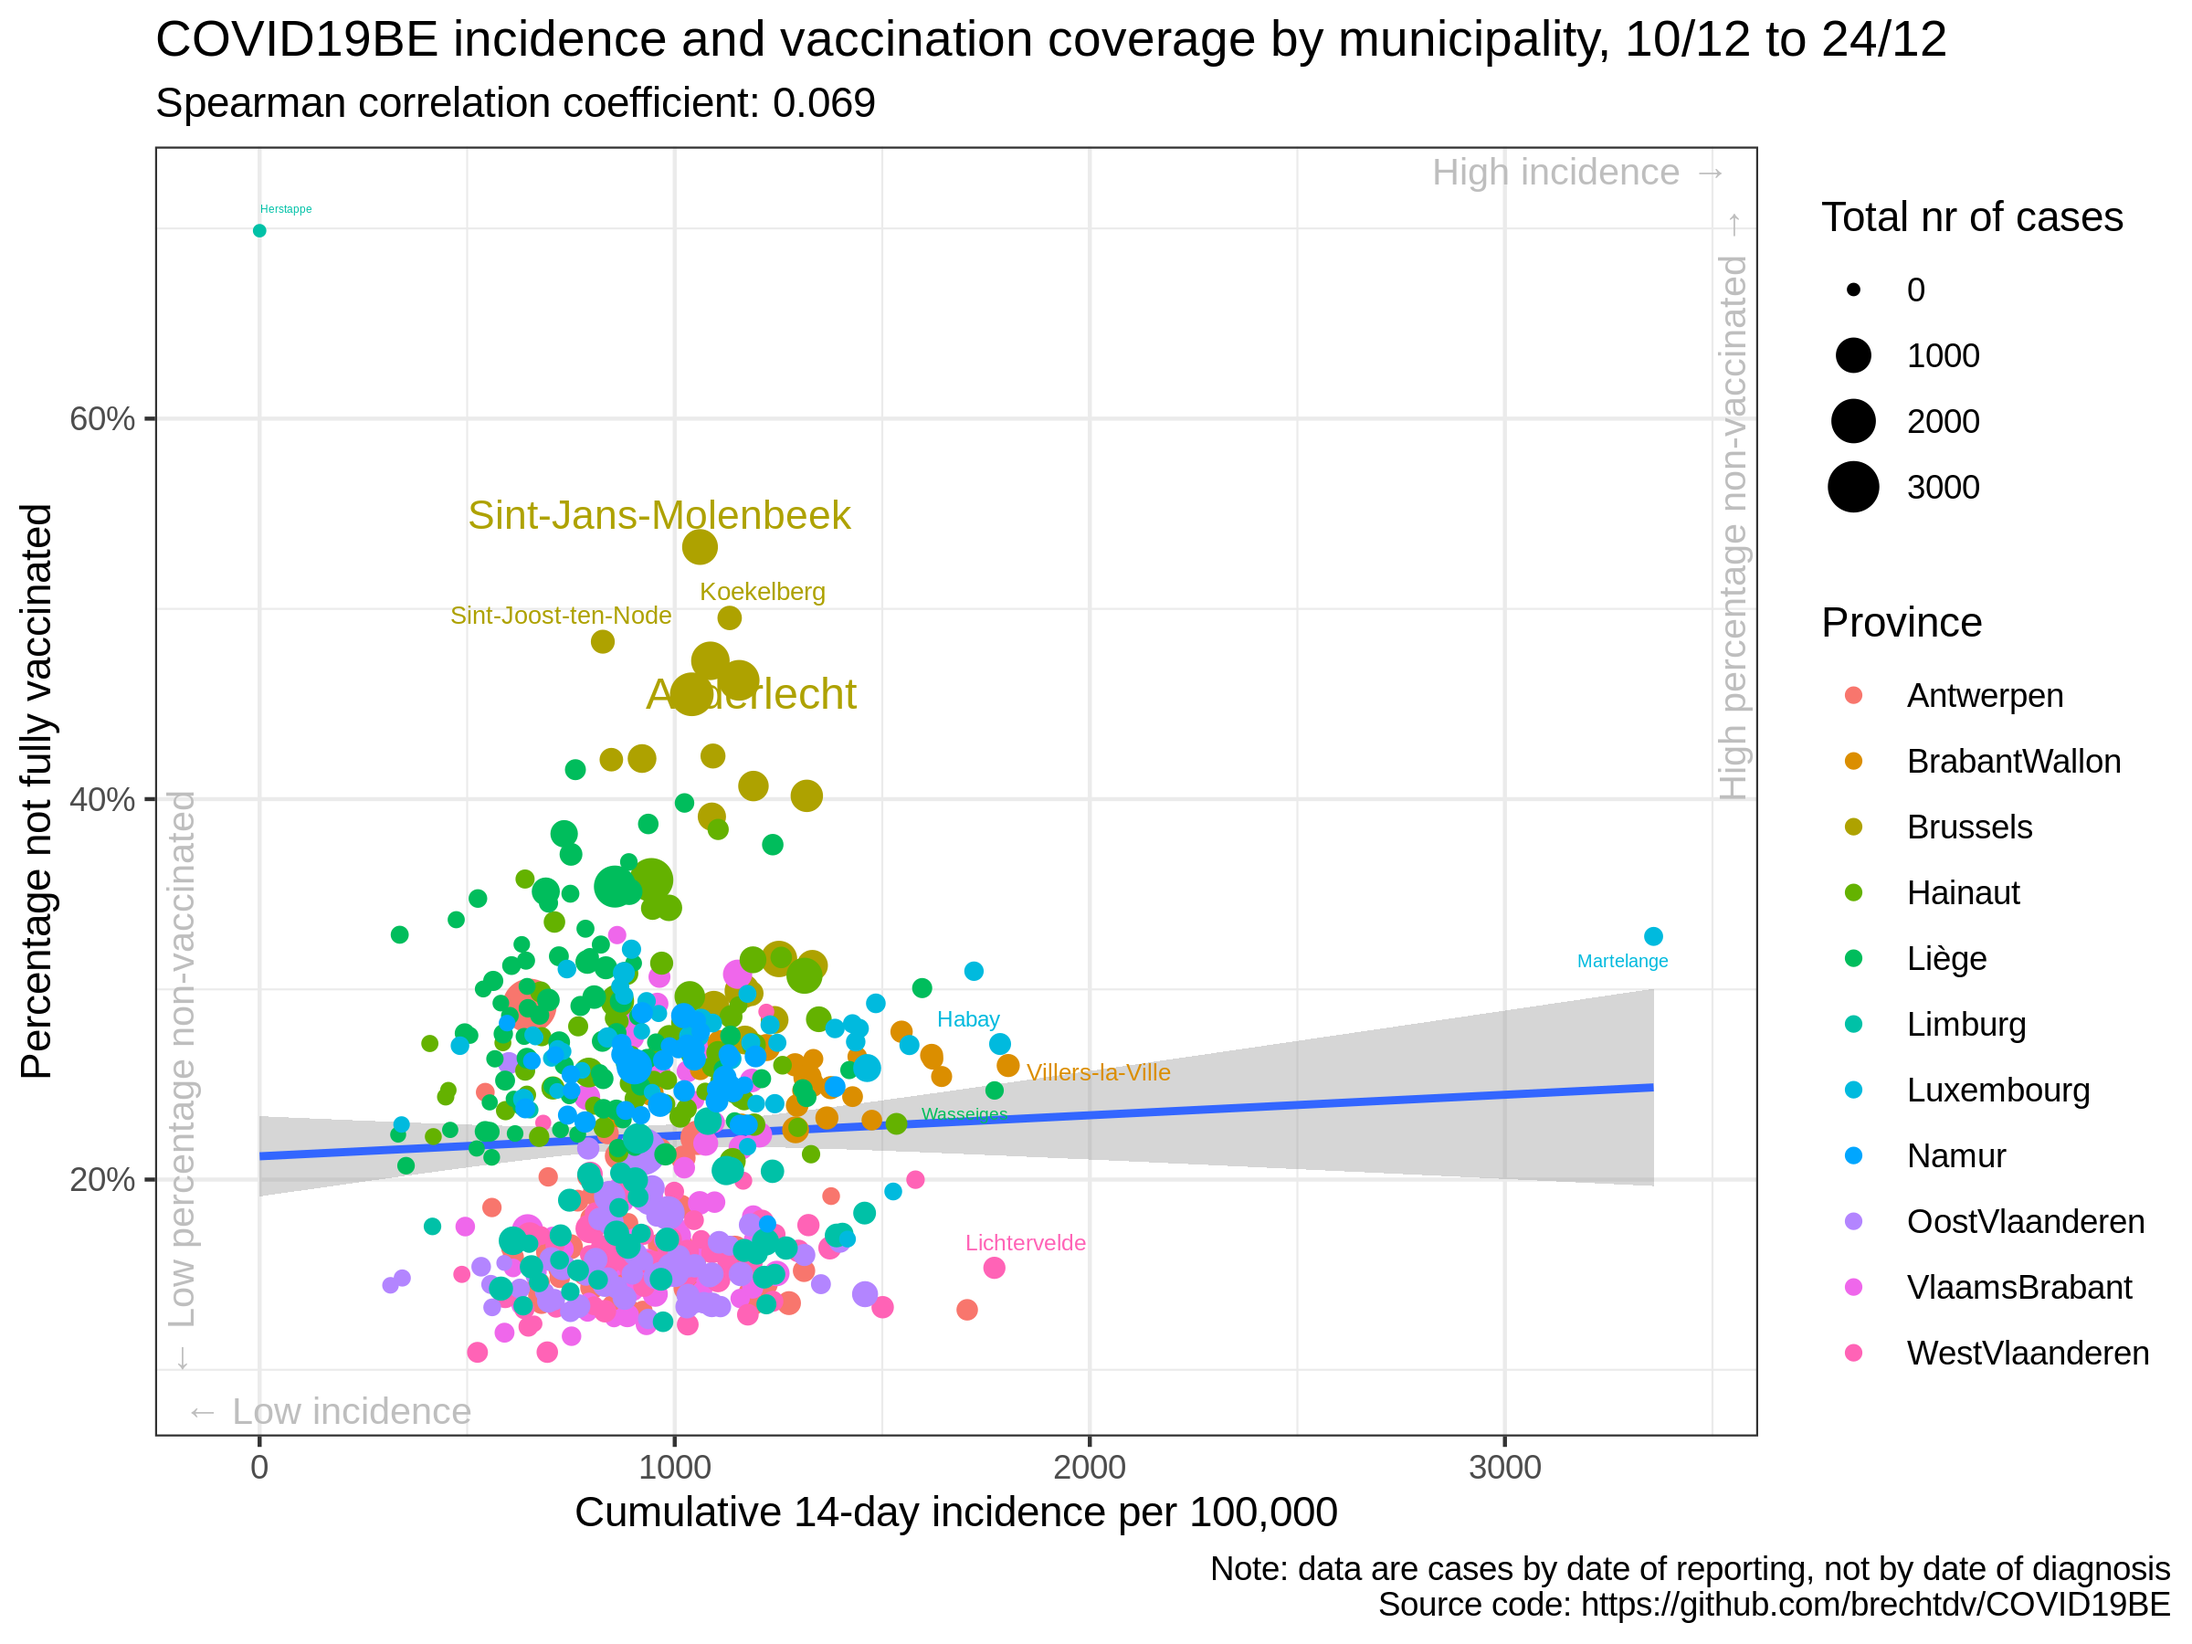
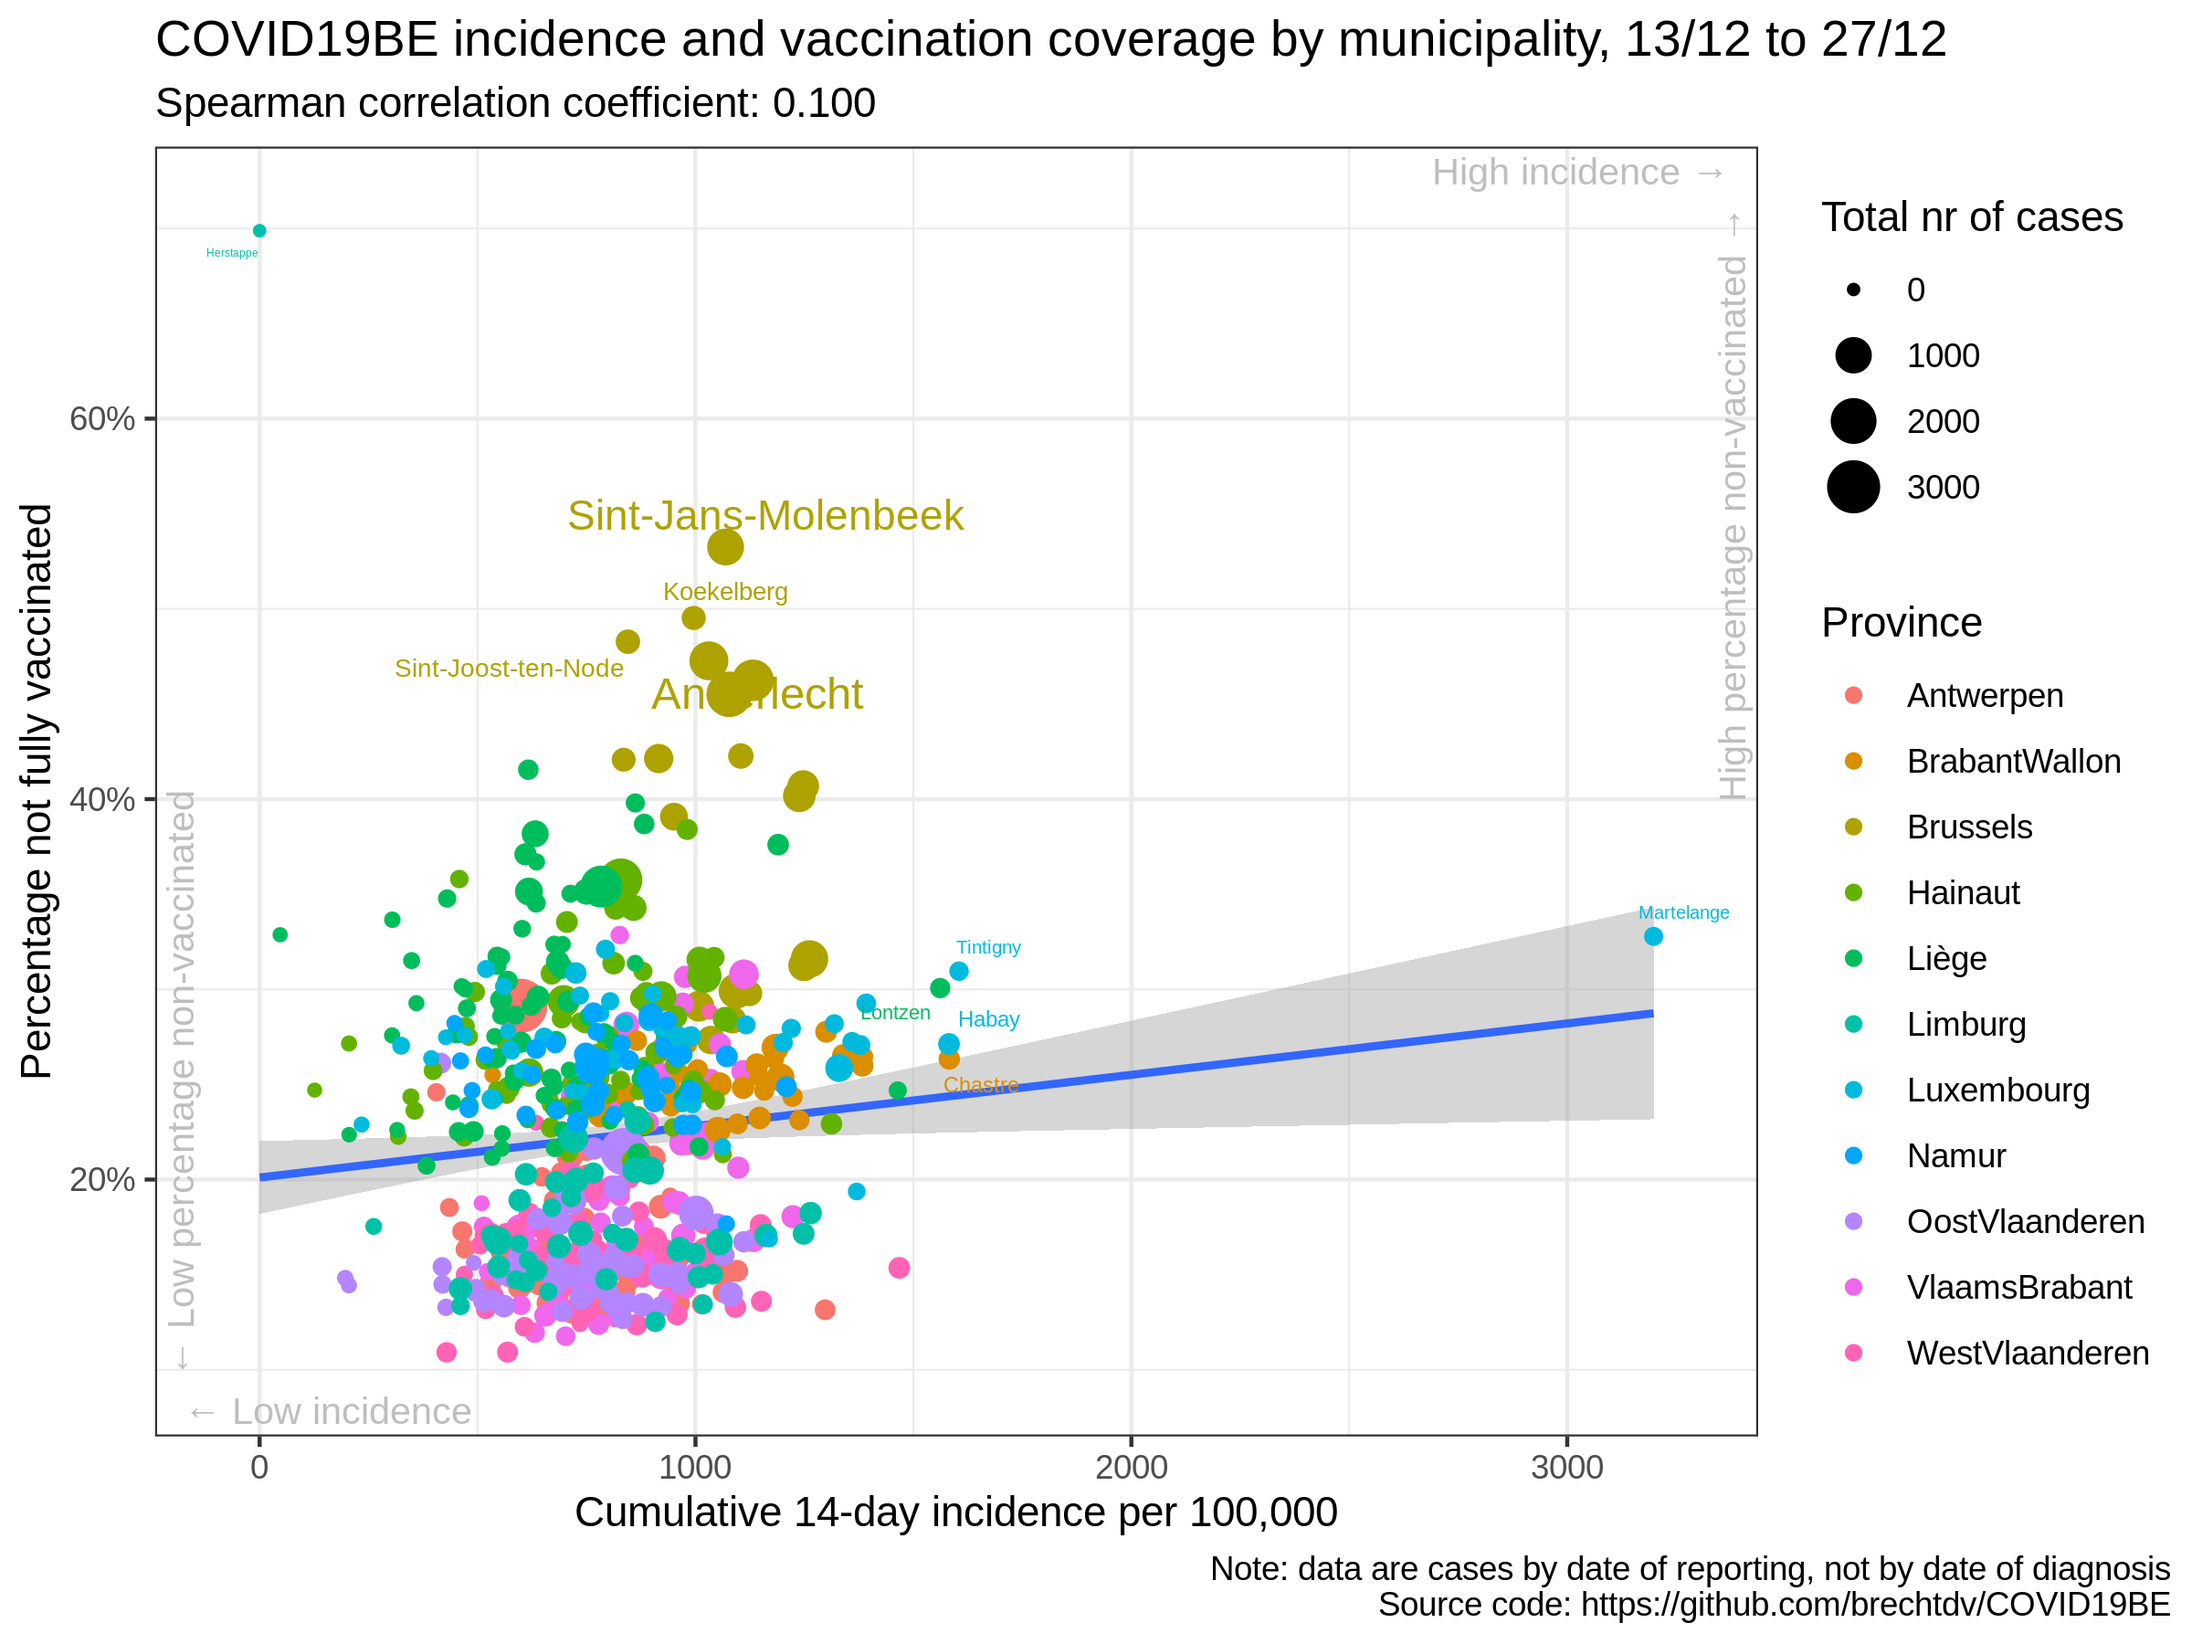
update situation

diff --git a/vaccination/README.md b/vaccination/README.md
@@ -13,18 +13,18 @@
 
 |                | estimate.rho | p.value |
 | :------------- | -----------: | ------: |
-| Antwerpen      |      \-0.273 |   0.024 |
-| BrabantWallon  |        0.141 |   0.481 |
-| Brussels       |      \-0.596 |   0.008 |
-| Hainaut        |        0.011 |   0.927 |
-| Liège          |        0.062 |   0.574 |
-| Limburg        |        0.027 |   0.866 |
-| Luxembourg     |        0.090 |   0.561 |
-| Namur          |      \-0.144 |   0.387 |
-| OostVlaanderen |        0.111 |   0.398 |
-| VlaamsBrabant  |        0.335 |   0.007 |
-| WestVlaanderen |        0.209 |   0.097 |
-| Belgium        |        0.069 |   0.097 |
+| Antwerpen      |      \-0.184 |   0.130 |
+| BrabantWallon  |        0.278 |   0.159 |
+| Brussels       |      \-0.282 |   0.240 |
+| Hainaut        |        0.158 |   0.194 |
+| Liège          |        0.024 |   0.826 |
+| Limburg        |        0.037 |   0.815 |
+| Luxembourg     |        0.064 |   0.681 |
+| Namur          |      \-0.110 |   0.510 |
+| OostVlaanderen |        0.141 |   0.280 |
+| VlaamsBrabant  |        0.486 |   0.000 |
+| WestVlaanderen |        0.068 |   0.593 |
+| Belgium        |        0.100 |   0.016 |
 
 ### Data source
 
